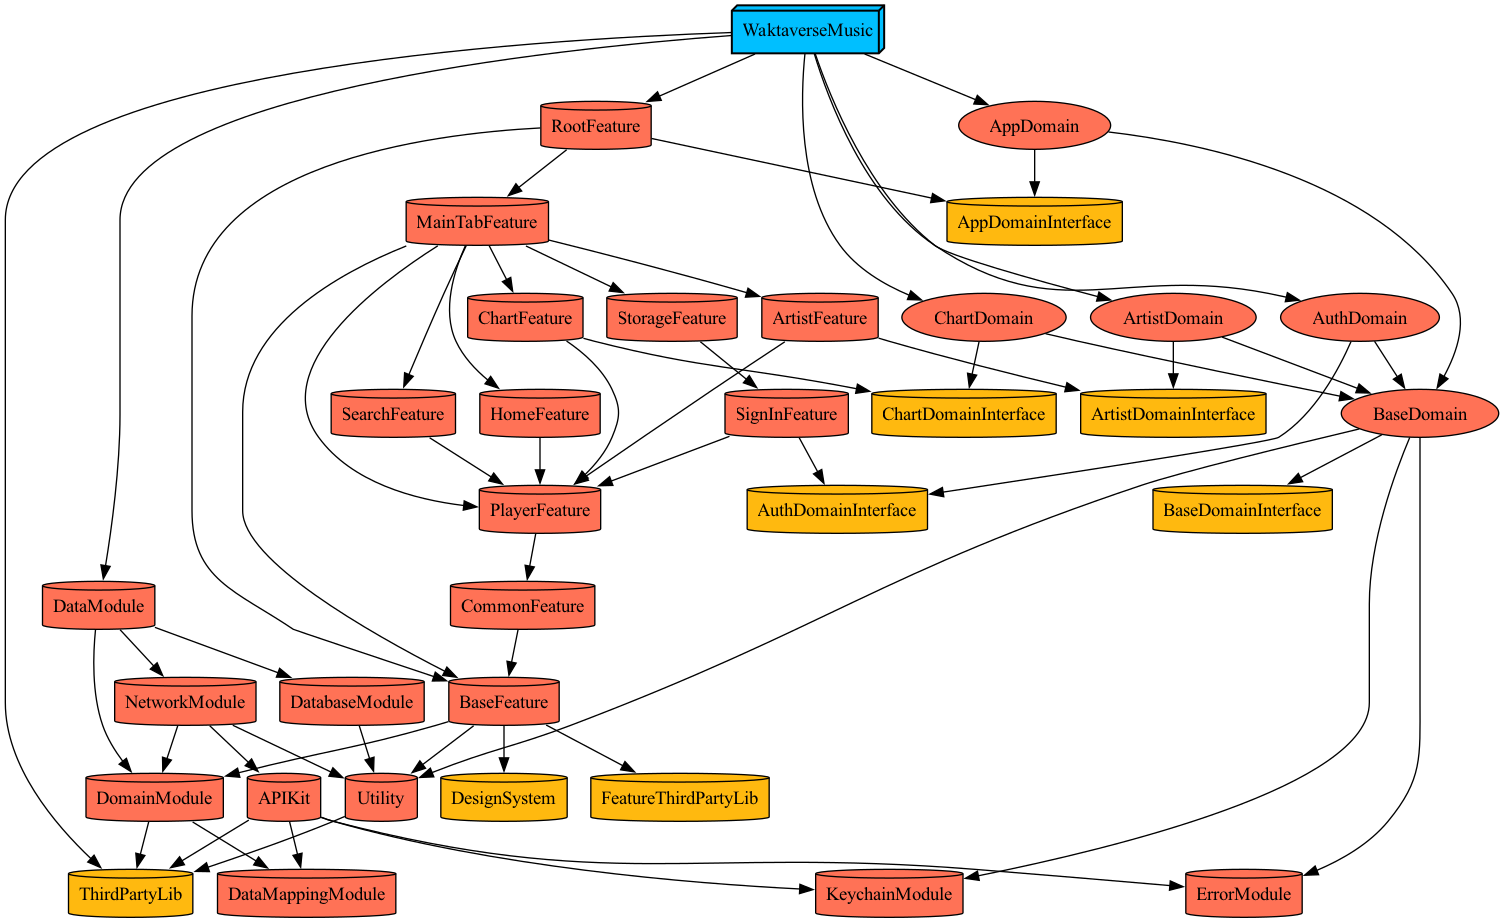
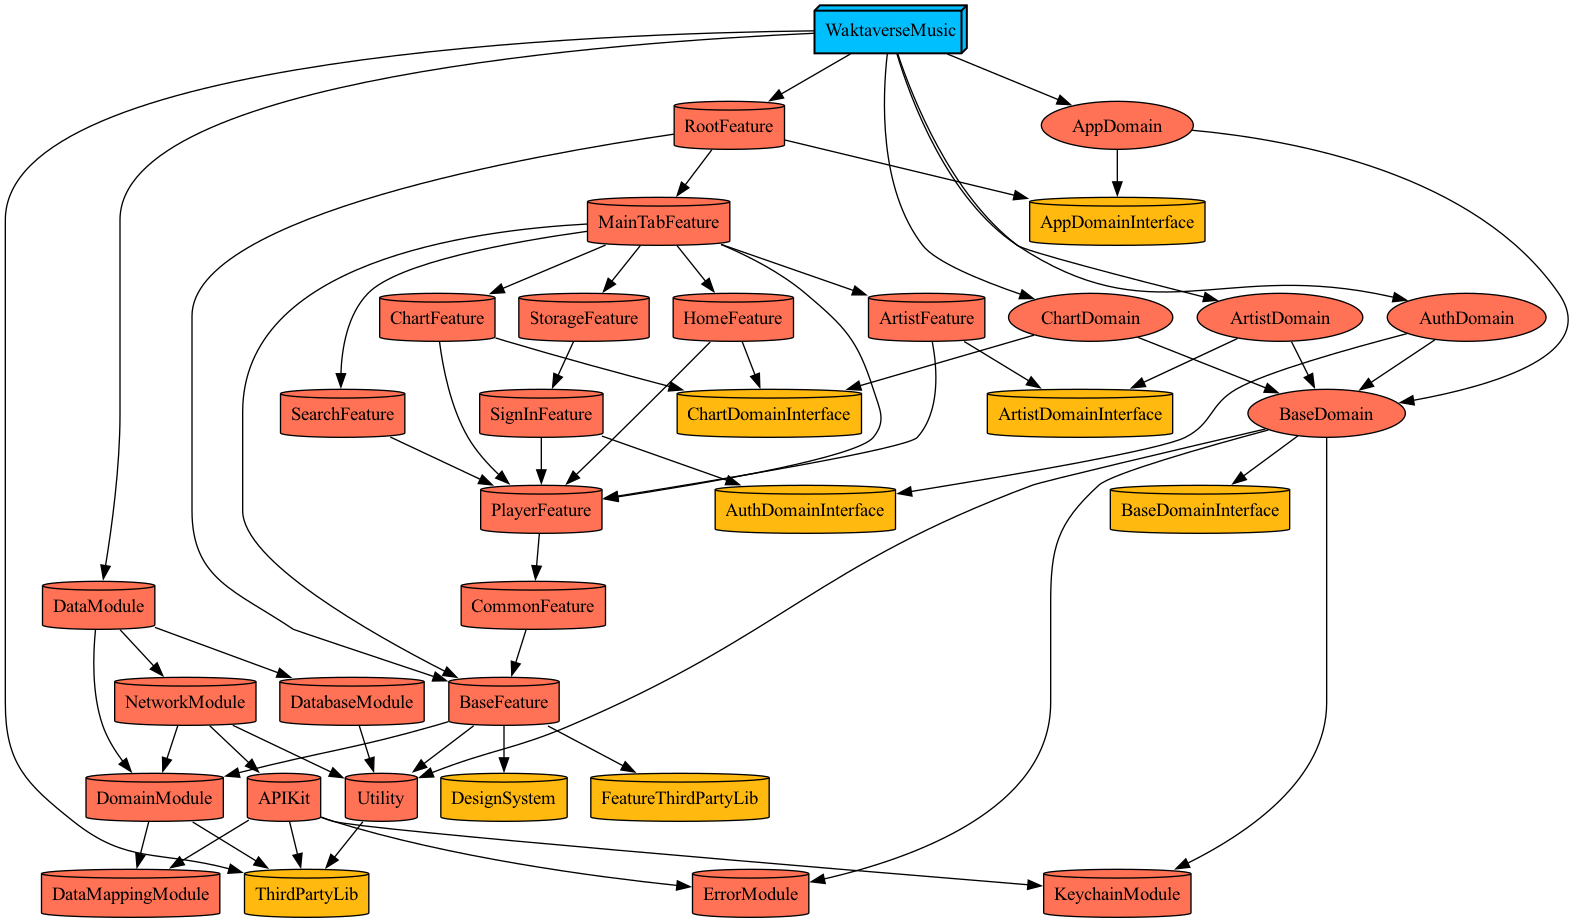
🔧 :: [#436] HomeFeature 모듈 생성 함수 변경 및 차트 도메인 디펜던시 연결

diff --git a/Projects/Features/HomeFeature/Project.swift b/Projects/Features/HomeFeature/Project.swift
@@ -1,11 +1,20 @@
+import DependencyPlugin
 import ProjectDescription
 import ProjectDescriptionHelpers
 
-let project = Project.makeModule(
-    name: "HomeFeature",
-    product: .staticFramework,
-    dependencies: [
-        .Project.Features.PlayerFeature
-    ],
-    resources: ["Resources/**"]
+let project = Project.module(
+    name: ModulePaths.Feature.HomeFeature.rawValue,
+    targets: [
+        .implements(
+            module: .feature(.HomeFeature),
+            product: .staticFramework,
+            spec: .init(
+                resources: ["Resources/**"],
+                dependencies: [
+                    .feature(target: .PlayerFeature),
+                    .domain(target: .ChartDomain, type: .interface)
+                ]
+            )
+        )
+    ]
 )
